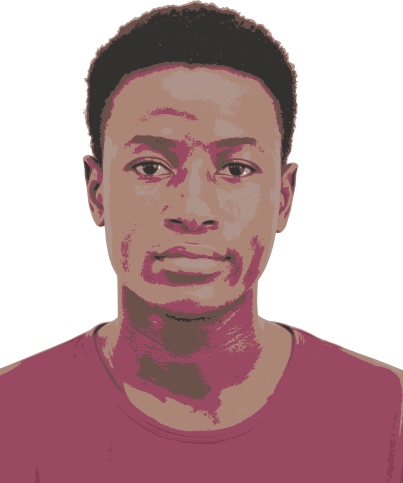
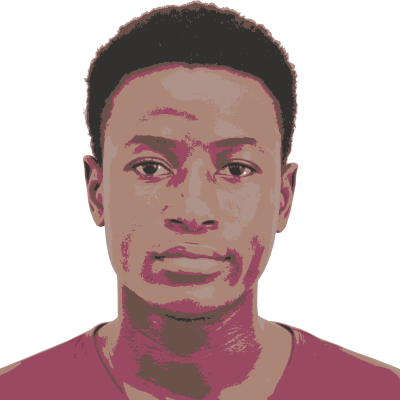
dynamic image added

diff --git a/src/components/Index.svelte b/src/components/Index.svelte
@@ -8,15 +8,24 @@
     height: 100%;
   }
 
+  .content {
+    flex-flow: column nowrap;
+  }
+
+  .description {
+    font-size: 24px;
+    text-align: center;
+  }
+
   @media (min-width: 750px) {
     .content {
-      background: wheat;
+      flex-flow: row nowrap;
     }
 
     .description {
       font-size: 34px;
       padding: 0px 10px;
-      font-family: 'Fira Code', monospace;
+      font-family: "Fira Code", monospace;
     }
   }
 </style>
@@ -26,12 +35,17 @@
   <section class="content flex-center">
     <div class="description">
       <p>
-        Full Stack Developer &lt;-
+        Full Stack Developer
         <img src="/assets/img/verify.svg" alt="verified" />
       </p>
     </div>
     <div>
-      <img src="/assets/img/bruno_edoh_small.png" alt="bruno edoh" />
+      <picture>
+        <source
+          srcset="/assets/img/bruno_edoh_large.png"
+          media="(min-width: 750px)" />
+        <img src="/assets/img/bruno_edoh_small.png" alt="bruno edoh" />
+      </picture>
     </div>
   </section>
 </div>
